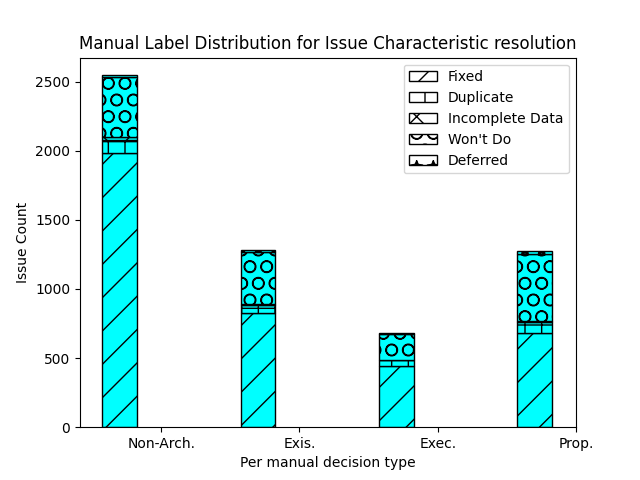
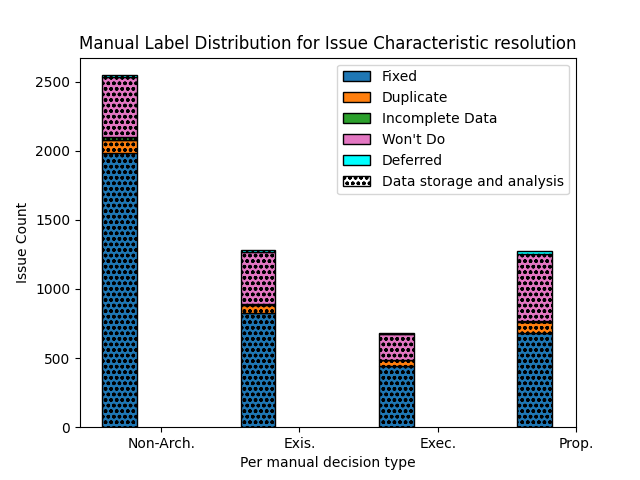
stats: graphic changes

diff --git a/util/charac_analysis/5_statistics.py b/util/charac_analysis/5_statistics.py
@@ -84,8 +84,12 @@ def get_simple_box_data(domain, characteristic, decisiontype):
 
 x_labels = ["Non-Arch.", 'Exis.', 'Exec.', 'Prop.']
 domains = ["Data storage and analysis", "Middleware"]
-dom_colors = ["cyan", "red"]
-hatch_options = ['/', '+', 'x', 'O', '*', '\\', '.', '-', 'o', '|', '+O', '/O', 'oo', 'x*']
+
+with open('config.json') as f:
+    file = json.load(f)
+    colors = file['colors']
+    hatches = file['hatches']
+
 xticks = []
 for j in range(0, len(x_labels)):
     for i in range(0, len(domains)):
@@ -98,6 +102,7 @@ def bar_charts():
     for charac in bar_characs:
         fig, ax = plt.subplots()
         # for dom in domains:
+        legend_colors = {}
         legend_hatches = {}
         for k in range(0, len(domains)):
             dom = domains[k]
@@ -116,13 +121,15 @@ def bar_charts():
                     count = 0
                     if this_label in data[this_char]:
                         count = data[this_char][this_label]
-                    ax.bar(x=(i+1) - 0.3 + k* (0.6 / (len(domains) - 1)), height=count, width=widths, label=this_label, bottom=bottoms[i], hatch=hatch_options[j], color=dom_colors[k], edgecolor="black")
-                    legend_hatches[this_char] = hatch_options[j]
+                    ax.bar(x=(i+1) - 0.3 + k* (0.6 / (len(domains) - 1)), height=count, width=widths, label=this_label, bottom=bottoms[i], hatch=hatches[k], color=colors[j], edgecolor="black")
+                    legend_colors[this_char] = colors[j]
+                    legend_hatches[domains[k]] = hatches[k]
                     bottoms[i] += count
 
-        #legend_hatches = [(x, legend_hatches[x]) for x in legend_hatches]
-        #labels, hatches = zip(*legend_hatches)
-        ax.legend(handles=[mpatches.Patch(facecolor="white", edgecolor='black', hatch=legend_hatches[this_char], label=this_char) for this_char in legend_hatches])
+        handles = [mpatches.Patch(facecolor=legend_colors[this_char], edgecolor='black', label=this_char) for this_char in legend_colors]
+        handles.extend([mpatches.Patch(facecolor='white', edgecolor='black', hatch=legend_hatches[this_dom], label=this_dom) for this_dom in legend_hatches])
+
+        ax.legend(handles=handles)
 
         ax.set_ylabel('Issue Count')
         ax.set_xlabel('Per manual decision type')
@@ -158,18 +165,18 @@ def box_charts():
         for j in range(0, len(x_labels)):
             for i in range(0, len(domains)):
                 this_idx = j*len(domains) + i
-                plt.setp(bp['boxes'][this_idx], color=dom_colors[i])
-                plt.setp(bp['medians'][this_idx], color=dom_colors[i])
+                plt.setp(bp['boxes'][this_idx], color=colors[i])
+                plt.setp(bp['medians'][this_idx], color=colors[i])
                 
-                plt.setp(bp['caps'][this_idx*2], color=dom_colors[i])
-                plt.setp(bp['caps'][this_idx*2+1], color=dom_colors[i])
+                plt.setp(bp['caps'][this_idx*2], color=colors[i])
+                plt.setp(bp['caps'][this_idx*2+1], color=colors[i])
                 
-                plt.setp(bp['whiskers'][this_idx*2], color=dom_colors[i])
-                plt.setp(bp['whiskers'][this_idx*2+1], color=dom_colors[i])
+                plt.setp(bp['whiskers'][this_idx*2], color=colors[i])
+                plt.setp(bp['whiskers'][this_idx*2+1], color=colors[i])
                 
                 if len(bp['fliers']) == 2*len(bp['boxes']):
-                    plt.setp(bp['fliers'][this_idx*2], color=dom_colors[i])
-                    plt.setp(bp['fliers'][this_idx*2+1], color=dom_colors[i])
+                    plt.setp(bp['fliers'][this_idx*2], color=colors[i])
+                    plt.setp(bp['fliers'][this_idx*2+1], color=colors[i])
 
         plt.xticks([x+1 for x in range(0, len(x_labels))], x_labels)
         ax.set_ylabel(charac)
@@ -177,7 +184,7 @@ def box_charts():
 
         colours = []
         for i in range(0, len(domains)):
-            col, = plt.plot([1,1], dom_colors[i])
+            col, = plt.plot([1,1], colors[i])
             colours.append((col, domains[i]))
         cols, doms = zip(*colours)
         plt.legend(cols, doms)
@@ -189,4 +196,4 @@ def box_charts():
         plt.close()
 
 bar_charts()
-# box_charts()
+box_charts()
